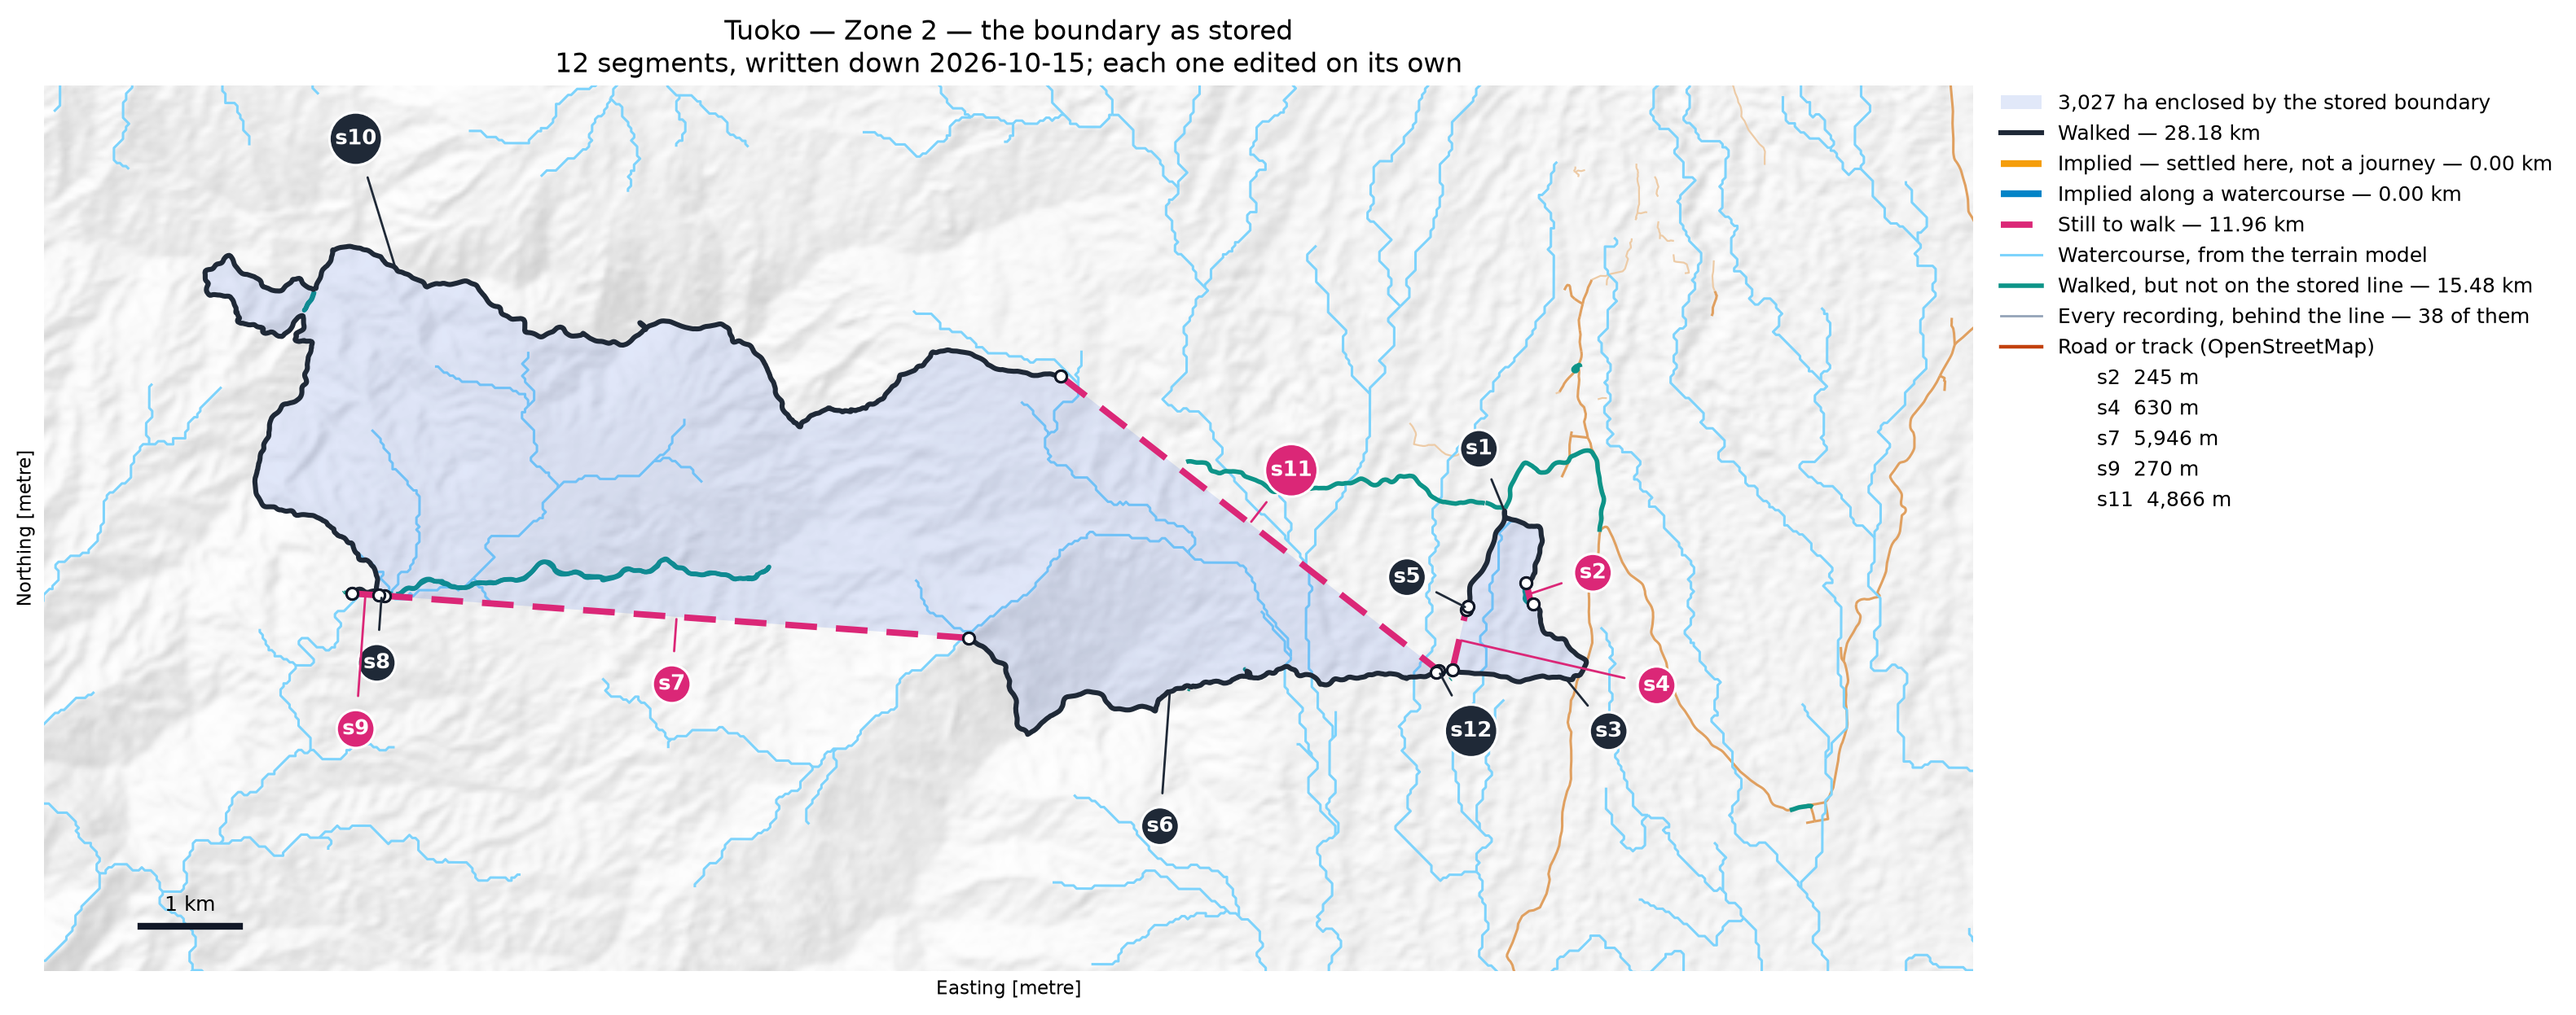
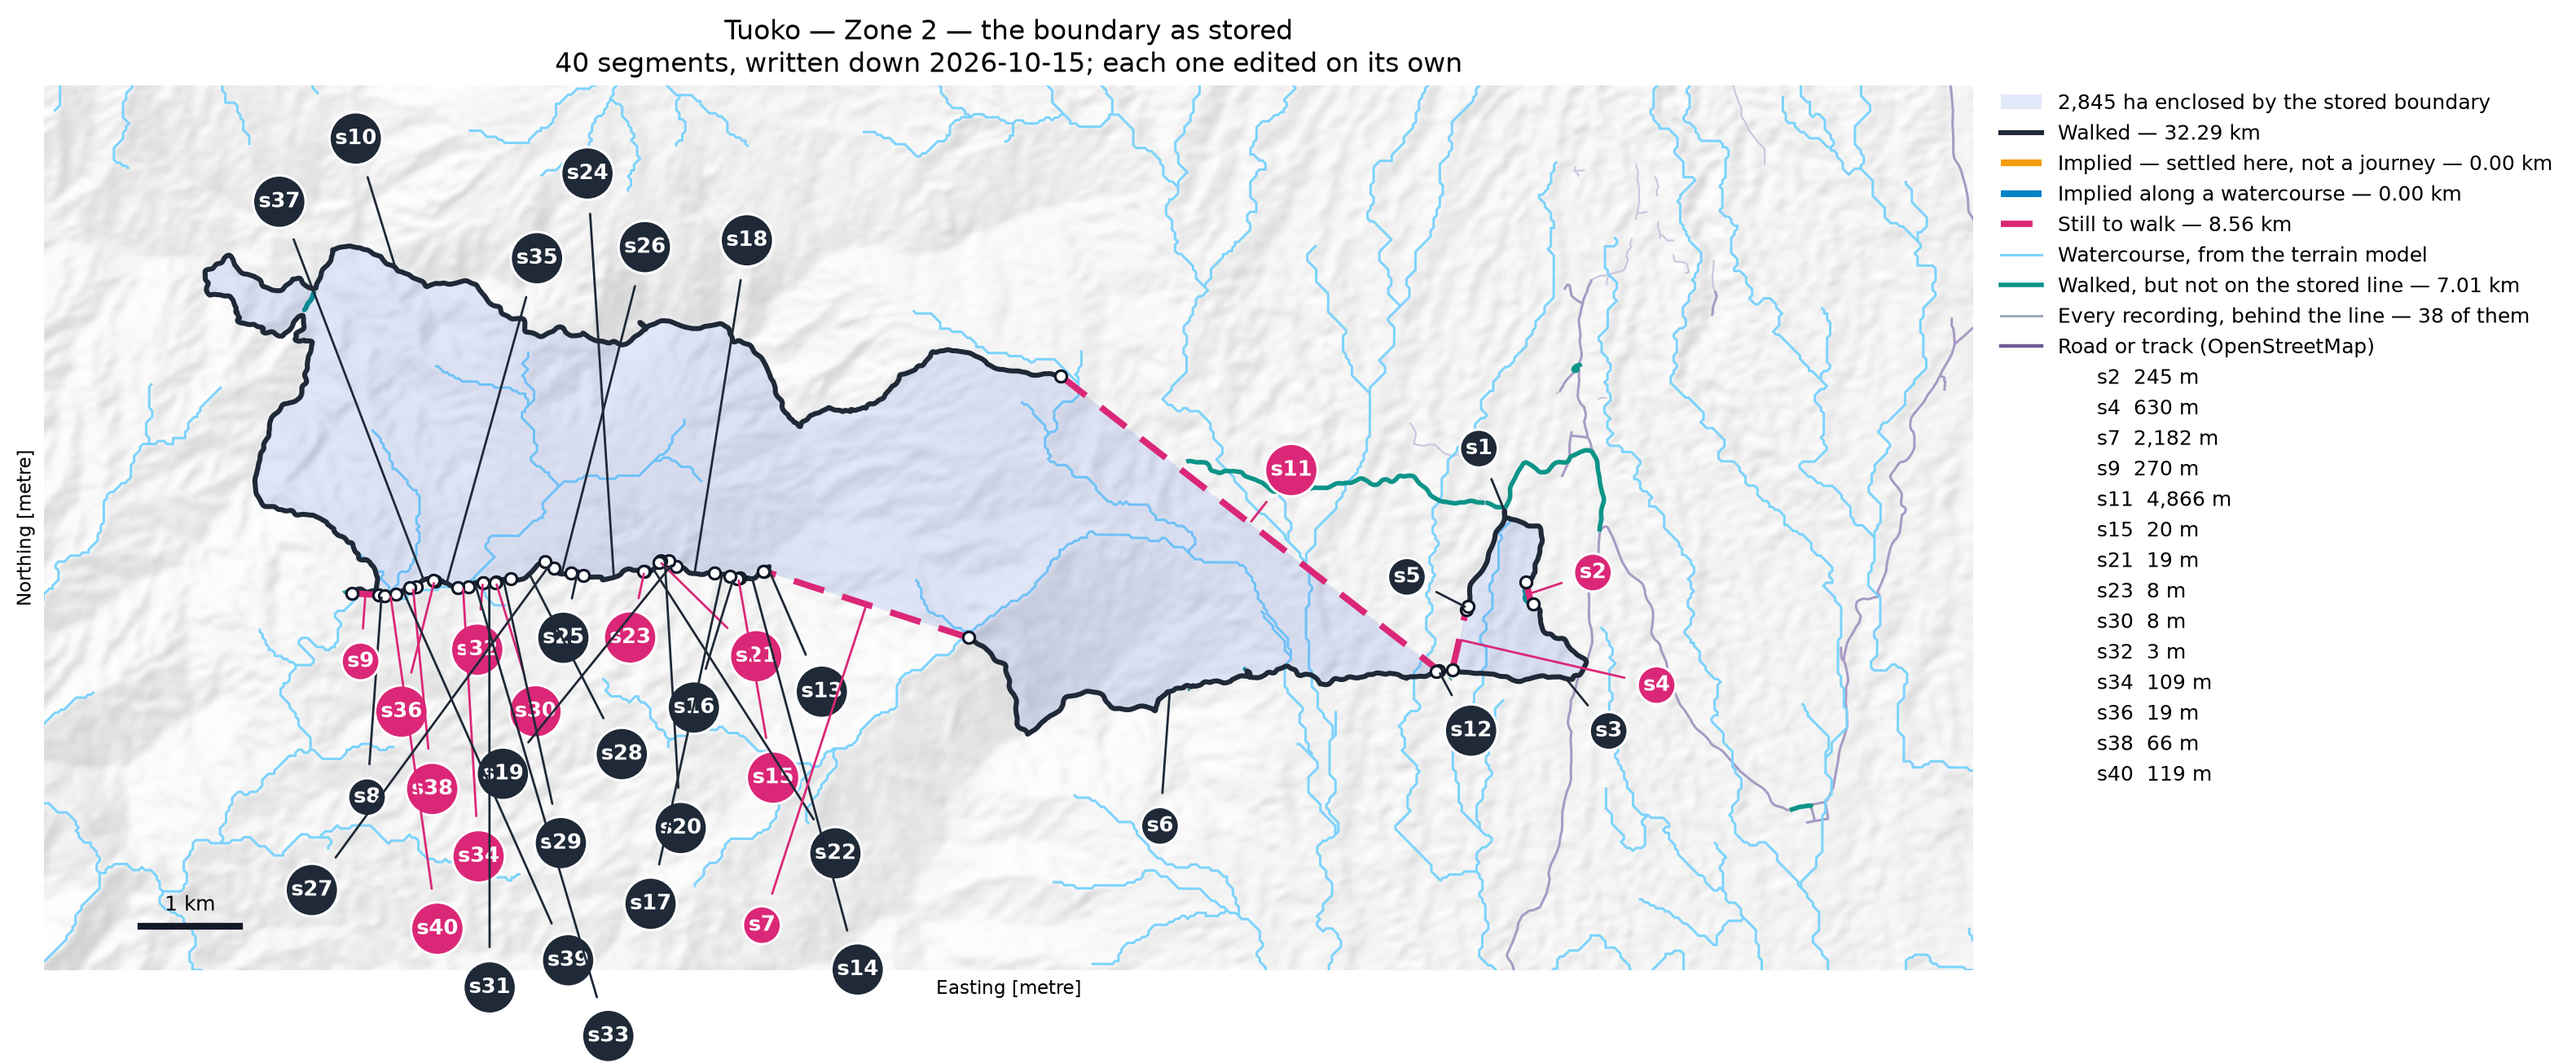
Tuoko: s7 rebuilt on the walked fragments; roads recoloured
Roads were drawn in the same orange family as Implied and the legend
could not be told apart. They are now violet, clear of the amber and
the pink.

s7 was 5,946 m of line nobody walked, with walked fragments 250-450 m
to one side. I had argued they were not worth using because they do
not join; the reviewer was right that they are. Rebuilt as 29
alternating pieces: 2,554 m drawn and 4,111 m walked.

Tuoko: 40 segments, 32.29 km walked (from 28.18), 8.56 km to walk
(from 11.96), 2,844.9 ha.

Claude-Session: https://claude.ai/code/session_01K6X75MkuiGQ9rmgDZx45vk

diff --git a/scripts/roads.py b/scripts/roads.py
@@ -111,18 +111,18 @@ def fetch(theme: str, kind: str, area, columns: list[str]):
 # footpath through the garden both come back as lines, and drawing them
 # alike would put a motorway through the bush.
 PAINT = {
-    "motorway":   ("#c2410c", 2.4),
-    "trunk":      ("#c2410c", 2.2),
-    "primary":    ("#c2410c", 2.0),
-    "secondary":  ("#d97706", 1.7),
-    "tertiary":   ("#d97706", 1.4),
-    "residential": ("#e0a060", 1.1),
-    "unclassified": ("#e0a060", 1.1),
-    "living_street": ("#e0a060", 1.0),
-    "track":      ("#e8bc8a", 0.9),
-    "path":       ("#edcba6", 0.8),
-    "footway":    ("#edcba6", 0.8),
-    "steps":      ("#edcba6", 0.8),
+    "motorway":   ("#6b5b95", 2.4),
+    "trunk":      ("#6b5b95", 2.2),
+    "primary":    ("#6b5b95", 2.0),
+    "secondary":  ("#8779ad", 1.7),
+    "tertiary":   ("#8779ad", 1.4),
+    "residential": ("#a79bc4", 1.1),
+    "unclassified": ("#a79bc4", 1.1),
+    "living_street": ("#a79bc4", 1.0),
+    "track":      ("#bcb3d3", 0.9),
+    "path":       ("#cdc6de", 0.8),
+    "footway":    ("#cdc6de", 0.8),
+    "steps":      ("#cdc6de", 0.8),
 }
 
 
@@ -143,7 +143,7 @@ def underlay(axis, crs, window, zorder: float = 0.6, named: bool = True):
             part.plot(ax=axis, color=colour, linewidth=width, zorder=zorder)
     rest = frame[~frame["class"].isin(PAINT)]
     if not rest.empty:
-        rest.plot(ax=axis, color="#edcba6", linewidth=0.8, zorder=zorder)
+        rest.plot(ax=axis, color="#cdc6de", linewidth=0.8, zorder=zorder)
     if named:
         span = window[2] - window[0]
         placed: list = []
@@ -158,7 +158,7 @@ def underlay(axis, crs, window, zorder: float = 0.6, named: bool = True):
                 continue
             placed.append((here.x, here.y))
             axis.annotate(str(name), (here.x, here.y), fontsize=7.5,
-                          color="#b45309", ha="center", va="center",
+                          color="#6b5b95", ha="center", va="center",
                           zorder=zorder + 0.1,
                           bbox=dict(boxstyle="round,pad=0.15", fc="white",
                                     ec="none", alpha=0.65))

diff --git a/scripts/boundary.py b/scripts/boundary.py
@@ -547,7 +547,7 @@ def draw(book: dict, out: Path, near=None):
     try:
         import roads as _rt
         if _rt.OUT.exists():
-            handles.append(Line2D([0], [0], color="#c2410c", lw=1.6,
+            handles.append(Line2D([0], [0], color="#6b5b95", lw=1.6,
                                   label="Road or track (OpenStreetMap)"))
     except Exception:
         pass
